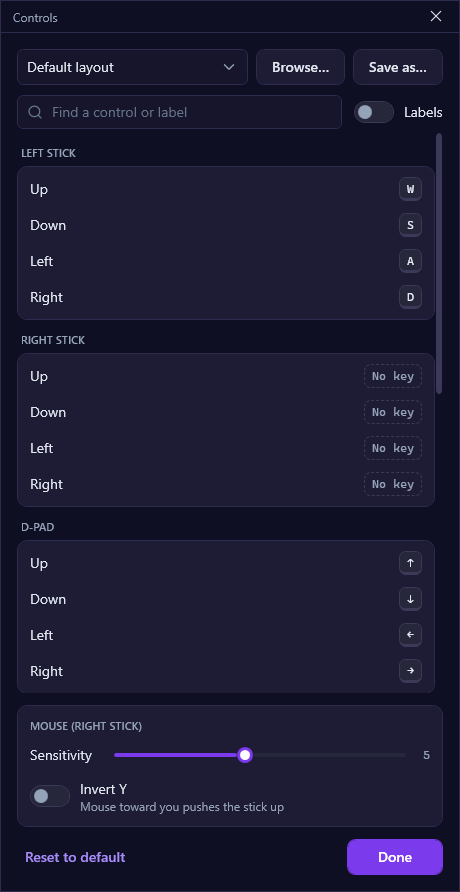
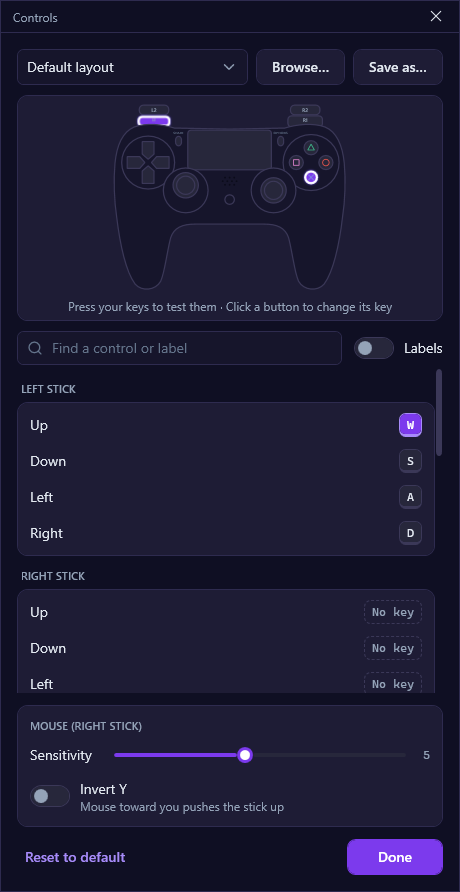
docs: screenshots of the setup screen, the Xbox 360 lobby and the live controller

diff --git a/docs/cafe-setup-guide.md b/docs/cafe-setup-guide.md
@@ -181,6 +181,9 @@ game. It ends with a pass or fail line for each controller.
 
 1. Start CouchLink and click **Host a game**.
 2. Pick the **Controller** every player gets, then click **Start hosting**.
+
+   ![The Host a game screen with Xbox 360 picked](images/host-setup.png)
+
    Nothing is shared on the network until you do; the back arrow (or Esc)
    returns to the start screen.
    - **DualShock 4** works with most games, like NBA 2K22. Up to 9 players.
@@ -195,6 +198,10 @@ game. It ends with a pass or fail line for each controller.
    window and start the game.
 
 ![The host lobby](images/host-lobby.png)
+
+With Xbox 360 the lobby says so and counts to 5:
+
+![The host lobby in an Xbox 360 session](images/host-lobby-xbox.png)
 
 ### On each joining PC
 
@@ -290,6 +297,8 @@ The controller at the top is drawn as the session's pad. Press your keys to
 test them: the buttons light up, the triggers fill and the sticks lean, and
 the key caps in the list light up too. Click a button on the picture to change
 its key.
+
+![The controls editor in an Xbox 360 session, with A and LB held](images/controls-xbox.png)
 
 - Click a control, then press the key or mouse button for it. Mouse side
   buttons work too. Esc cancels.
